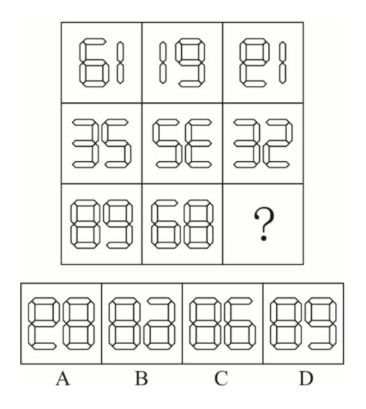
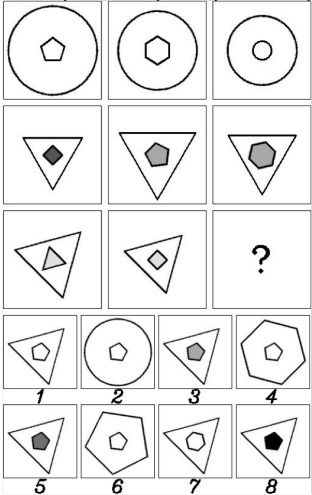
change of images

diff --git a/main/__init__.py b/main/__init__.py
@@ -8,7 +8,7 @@ Your app description
 
 
 
-briefing_answers = ['D', 'B', 'B', 'B', 'D', 'D', 'C', 'B', 'B', 'C', 'C', 'B', 'B', 'C', 'A', 'B', 'C', 'D', 'A', 'A']
+briefing_answers = [3,1,2,6,6,3,6,7,6,4,5,6,5,1,7,1,6,5,3,4]
 
 
 class C(BaseConstants):
@@ -35,141 +35,141 @@ class Player(BasePlayer):
     briefing_correct_amount = models.CharField()
     # briefing_1~20
     briefing_1 = models.CharField(
-        label="1、<img src='/static/img/briefing/1.png' style='width: 480px; max-width: 100%;'>",
-        choices=[('A', 'A'), ('B', 'B'), ('C', 'C'), ('D', 'D')],
+        label="1、<img src='/static/img/briefing/1.png' style='width: 300px; max-width: 100%;'>",
+        choices=range(1, 9),
         widget=widgets.RadioSelectHorizontal,
         blank=True
     )
 
     briefing_2 = models.CharField(
-        label="2、<img src='/static/img/briefing/2.png' style='width: 480px; max-width: 100%;'>",
-        choices=[('A', 'A'), ('B', 'B'), ('C', 'C'), ('D', 'D')],
+        label="2、<img src='/static/img/briefing/2.png' style='width: 300px; max-width: 100%;'>",
+        choices=range(1, 9),
         widget=widgets.RadioSelectHorizontal,
         blank=True
     )
 
     briefing_3 = models.CharField(
-        label="3、<img src='/static/img/briefing/3.png' style='width: 350px; max-width: 100%;'>",
-        choices=[('A', 'A'), ('B', 'B'), ('C', 'C'), ('D', 'D')],
+        label="3、<img src='/static/img/briefing/3.png' style='width: 300px; max-width: 100%;'>",
+        choices=range(1, 9),
         widget=widgets.RadioSelectHorizontal,
         blank=True
     )
 
     briefing_4 = models.CharField(
-        label="4、<img src='/static/img/briefing/4.png' style='width: 350px; max-width: 100%;'>",
-        choices=[('A', 'A'), ('B', 'B'), ('C', 'C'), ('D', 'D')],
+        label="4、<img src='/static/img/briefing/4.png' style='width: 300px; max-width: 100%;'>",
+        choices=range(1, 9),
         widget=widgets.RadioSelectHorizontal,
         blank=True
     )
 
     briefing_5 = models.CharField(
-        label="5、<img src='/static/img/briefing/5.png' style='width: 330px; max-width: 100%;'>",
-        choices=[('A', 'A'), ('B', 'B'), ('C', 'C'), ('D', 'D')],
+        label="5、<img src='/static/img/briefing/5.png' style='width: 300px; max-width: 100%;'>",
+        choices=range(1, 9),
         widget=widgets.RadioSelectHorizontal,
         blank=True
     )
 
     briefing_6 = models.CharField(
-        label="6、<img src='/static/img/briefing/6.png' style='width: 350px; max-width: 100%;'>",
-        choices=[('A', 'A'), ('B', 'B'), ('C', 'C'), ('D', 'D')],
+        label="6、<img src='/static/img/briefing/6.png' style='width: 300px; max-width: 100%;'>",
+        choices=range(1, 9),
         widget=widgets.RadioSelectHorizontal,
         blank=True
     )
 
     briefing_7 = models.CharField(
-        label="7、<img src='/static/img/briefing/7.png' style='width: 400px; max-width: 100%;'>",
-        choices=[('A', 'A'), ('B', 'B'), ('C', 'C'), ('D', 'D')],
+        label="7、<img src='/static/img/briefing/7.png' style='width: 300px; max-width: 100%;'>",
+        choices=range(1, 9),
         widget=widgets.RadioSelectHorizontal,
         blank=True
     )
 
     briefing_8 = models.CharField(
-        label="8、<img src='/static/img/briefing/8.png' style='width: 450px; max-width: 100%;'>",
-        choices=[('A', 'A'), ('B', 'B'), ('C', 'C'), ('D', 'D')],
+        label="8、<img src='/static/img/briefing/8.png' style='width: 300px; max-width: 100%;'>",
+        choices=range(1, 9),
         widget=widgets.RadioSelectHorizontal,
         blank=True
     )
 
     briefing_9 = models.CharField(
-        label="9、<img src='/static/img/briefing/9.png' style='width: 450px; max-width: 100%;'>",
-        choices=[('A', 'A'), ('B', 'B'), ('C', 'C'), ('D', 'D')],
+        label="9、<img src='/static/img/briefing/9.png' style='width: 300px; max-width: 100%;'>",
+        choices=range(1, 9),
         widget=widgets.RadioSelectHorizontal,
         blank=True
     )
 
     briefing_10 = models.CharField(
-        label="10、<img src='/static/img/briefing/10.png' style='width: 510px; max-width: 100%;'>",
-        choices=[('A', 'A'), ('B', 'B'), ('C', 'C'), ('D', 'D')],
+        label="10、<img src='/static/img/briefing/10.png' style='width: 300px; max-width: 100%;'>",
+        choices=range(1, 9),
         widget=widgets.RadioSelectHorizontal,
         blank=True
     )
 
     briefing_11 = models.CharField(
-        label="11、<img src='/static/img/briefing/11.png' style='width: 550px; max-width: 100%;'>",
-        choices=[('A', 'A'), ('B', 'B'), ('C', 'C'), ('D', 'D')],
+        label="11、<img src='/static/img/briefing/11.png' style='width: 300px; max-width: 100%;'>",
+        choices=range(1, 9),
         widget=widgets.RadioSelectHorizontal,
         blank=True
     )
 
     briefing_12 = models.CharField(
-        label="12、<img src='/static/img/briefing/12.png' style='width: 470px; max-width: 100%;'>",
-        choices=[('A', 'A'), ('B', 'B'), ('C', 'C'), ('D', 'D')],
+        label="12、<img src='/static/img/briefing/12.png' style='width: 300px; max-width: 100%;'>",
+        choices=range(1, 9),
         widget=widgets.RadioSelectHorizontal,
         blank=True
     )
 
     briefing_13 = models.CharField(
-        label="13、<img src='/static/img/briefing/13.png' style='width: 540px; max-width: 100%;'>",
-        choices=[('A', 'A'), ('B', 'B'), ('C', 'C'), ('D', 'D')],
+        label="13、<img src='/static/img/briefing/13.png' style='width: 300px; max-width: 100%;'>",
+        choices=range(1, 9),
         widget=widgets.RadioSelectHorizontal,
         blank=True
     )
 
     briefing_14 = models.CharField(
-        label="14、<img src='/static/img/briefing/14.png' style='width: 450px; max-width: 100%;'>",
-        choices=[('A', 'A'), ('B', 'B'), ('C', 'C'), ('D', 'D')],
+        label="14、<img src='/static/img/briefing/14.png' style='width: 300px; max-width: 100%;'>",
+        choices=range(1, 9),
         widget=widgets.RadioSelectHorizontal,
         blank=True
     )
 
     briefing_15 = models.CharField(
-        label="15、<img src='/static/img/briefing/15.png' style='width: 500px; max-width: 100%;'>",
-        choices=[('A', 'A'), ('B', 'B'), ('C', 'C'), ('D', 'D')],
+        label="15、<img src='/static/img/briefing/15.png' style='width: 300px; max-width: 100%;'>",
+        choices=range(1, 9),
         widget=widgets.RadioSelectHorizontal,
         blank=True
     )
 
     briefing_16 = models.CharField(
-        label="16、<img src='/static/img/briefing/16.png' style='width: 380px; max-width: 100%;'>",
-        choices=[('A', 'A'), ('B', 'B'), ('C', 'C'), ('D', 'D')],
+        label="16、<img src='/static/img/briefing/16.png' style='width: 300px; max-width: 100%;'>",
+        choices=range(1, 9),
         widget=widgets.RadioSelectHorizontal,
         blank=True
     )
 
     briefing_17 = models.CharField(
-        label="17、<img src='/static/img/briefing/17.png' style='width: 550px; max-width: 100%;'>",
-        choices=[('A', 'A'), ('B', 'B'), ('C', 'C'), ('D', 'D')],
+        label="17、<img src='/static/img/briefing/17.png' style='width: 300px; max-width: 100%;'>",
+        choices=range(1, 9),
         widget=widgets.RadioSelectHorizontal,
         blank=True
     )
 
     briefing_18 = models.CharField(
-        label="18、<img src='/static/img/briefing/18.png' style='width: 520px; max-width: 100%;'>",
-        choices=[('A', 'A'), ('B', 'B'), ('C', 'C'), ('D', 'D')],
+        label="18、<img src='/static/img/briefing/18.png' style='width: 300px; max-width: 100%;'>",
+        choices=range(1, 9),
         widget=widgets.RadioSelectHorizontal,
         blank=True
     )
 
     briefing_19 = models.CharField(
-        label="19、<img src='/static/img/briefing/19.png' style='width: 350px; max-width: 100%;'>",
-        choices=[('A', 'A'), ('B', 'B'), ('C', 'C'), ('D', 'D')],
+        label="19、<img src='/static/img/briefing/19.png' style='width: 300px; max-width: 100%;'>",
+        choices=range(1, 9),
         widget=widgets.RadioSelectHorizontal,
         blank=True
     )
 
     briefing_20 = models.CharField(
-        label="20、<img src='/static/img/briefing/20.png' style='width: 520px; max-width: 100%;'>",
-        choices=[('A', 'A'), ('B', 'B'), ('C', 'C'), ('D', 'D')],
+        label="20、<img src='/static/img/briefing/20.png' style='width: 300px; max-width: 100%;'>",
+        choices=range(1, 9),
         widget=widgets.RadioSelectHorizontal,
         blank=True
     )
